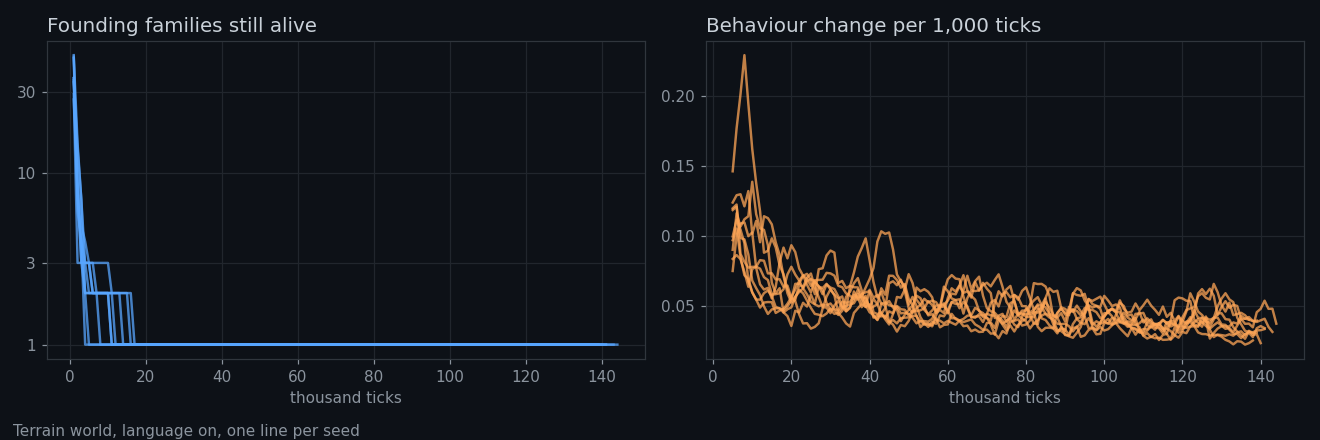
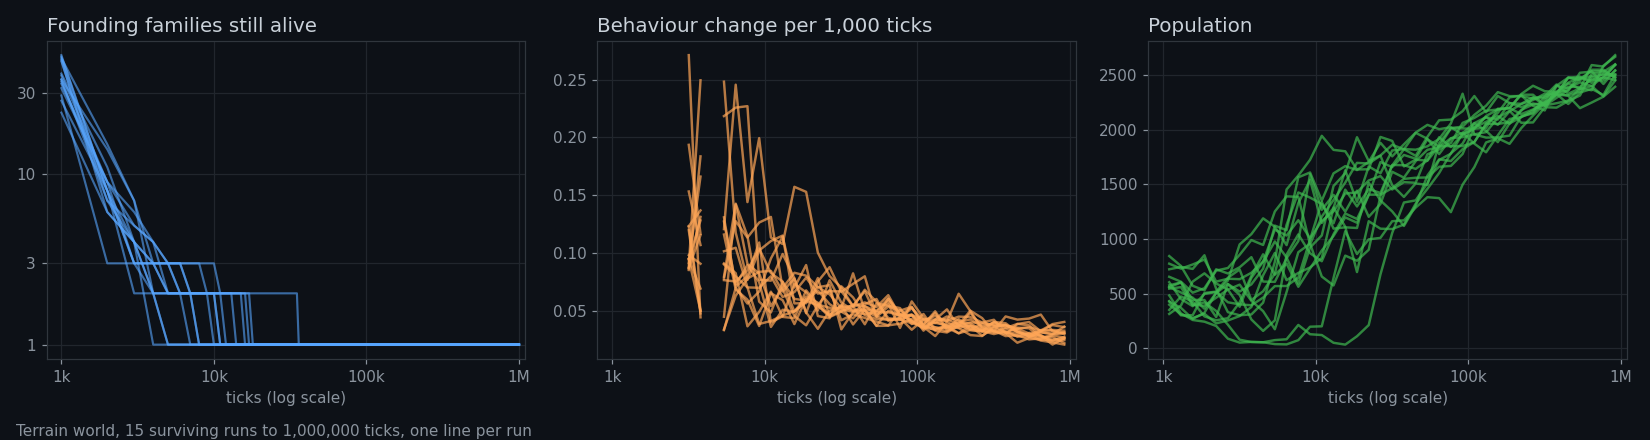
Add 1,000,000-tick results, terrain seeds 6-10, run lock; update README

diff --git a/fast/analyze_step3.py b/fast/analyze_step3.py
@@ -1,0 +1,27 @@
+"""Step 3 summary: terrain runs extended to 1,000,000 ticks. Uses novelty.csv and log.csv only (fast)."""
+import csv, glob, os, numpy as np
+R = "runs/35_terrain_language"
+acts = ["stay","N","S","E","W","eat","reproduce","signal_1","signal_2","signal_3","signal_4","share","mate","mark"]
+rows = []
+for d in sorted(glob.glob(f"{R}/language_*")):
+    if os.path.exists(f"{d}/EXTINCT"): continue
+    nv = list(csv.DictReader(open(f"{d}/novelty.csv")))
+    T = np.array([float(r["tick"]) for r in nv]); ch = np.array([float(r["change_from_previous_window"] or "nan") for r in nv])
+    def win(a, b): m = (T > a) & (T <= b); return np.nanmean(ch[m])
+    def shares(t): r = min(nv, key=lambda r: abs(float(r["tick"]) - t)); return np.array([float(r[a]) for a in acts])
+    lg = np.genfromtxt(f"{d}/log.csv", delimiter=",", names=True)
+    pop = lambda a, b: lg["population"][(lg["tick"] > a) & (lg["tick"] <= b)].mean()
+    en = lambda a, b: lg["mean_energy"][(lg["tick"] > a) & (lg["tick"] <= b)].mean()
+    s1, s2 = shares(100000), shares(1000000)
+    rows.append((os.path.basename(d), win(0, 10000), win(90000, 100000), win(490000, 500000), win(900000, 1000000),
+                 int(nv[-1]["lineages_alive"]), pop(90000, 100000), pop(900000, 1000000), en(90000, 100000), en(900000, 1000000),
+                 np.abs(s2 - s1).sum(), s1, s2, float(nv[-1]["weight_spread"]), float(nv[9]["weight_spread"]) if len(nv) > 9 else np.nan, T[-1]))
+print("run | change 0-10k | 90-100k | 490-500k | 900k-1M | lineages | pop 100k | pop 1M | energy 100k | energy 1M | behaviour shift 100k->1M | last tick")
+for r in rows:
+    print(f"{r[0]} | {r[1]:.3f} | {r[2]:.3f} | {r[3]:.3f} | {r[4]:.3f} | {r[5]} | {r[6]:.0f} | {r[7]:.0f} | {r[8]:.2f} | {r[9]:.2f} | {r[10]:.3f} | {r[15]:.0f}")
+A = np.array([r[1:5] for r in rows]); print("mean change by window:", np.round(np.nanmean(A, 0), 3))
+s1 = np.mean([r[11] for r in rows], 0); s2 = np.mean([r[12] for r in rows], 0)
+print("action shares 100k -> 1M:", ", ".join(f"{a} {x:.3f}->{y:.3f}" for a, x, y in zip(acts, s1, s2)))
+print("pop 100k->1M:", np.mean([r[6] for r in rows]).round(), "->", np.mean([r[7] for r in rows]).round(),
+      "| energy:", np.mean([r[8] for r in rows]).round(2), "->", np.mean([r[9] for r in rows]).round(2))
+print("weight spread at 10k -> 1M:", np.nanmean([r[14] for r in rows]).round(3), "->", np.mean([r[13] for r in rows]).round(3))

diff --git a/fast/run_fast.py b/fast/run_fast.py
@@ -32,6 +32,17 @@ p.add_argument("--checkpoint-every", type=int, default=None,
 p.add_argument("--stage13-dir", default=os.path.join(HERE, "..", "stages", "13_cofood"))
 a = p.parse_args()
 
+# one process per run folder: a second copy of the same run exits at once (code 3)
+import atexit
+os.makedirs(a.out_dir, exist_ok=True)
+_lock = os.path.join(a.out_dir, "RUNNING.lock")
+try:
+    os.close(os.open(_lock, os.O_CREAT | os.O_EXCL | os.O_WRONLY))
+except FileExistsError:
+    print(f"{a.out_dir} is already being run by another process (delete RUNNING.lock if that is wrong)")
+    sys.exit(3)
+atexit.register(lambda: os.path.exists(_lock) and os.remove(_lock))
+
 ck = sorted(((int(re.search(r"checkpoint_(\d+)", f).group(1)), f)
              for f in glob.glob(os.path.join(a.out_dir, "checkpoint_*.pkl"))))
 # skip unreadable saves (e.g. cut off by a kill before saves were atomic): use the newest good one

diff --git a/FINDINGS.md b/FINDINGS.md
@@ -902,3 +902,32 @@ but the signals carry very little information. Not yet a real language. Worth mo
 **Step 2 summary.** Sparse food and terrain did not make memory or shared food useful. Language moved from "not used"
 to "slight hint" once walls made distant information matter. Next in the approved order: step 3 (longer runs, 1M ticks)
 and step 5 (more seeds), starting with terrain seeds 6-10 to test the survival hint.
+
+### Terrain + language, seeds 6-10 (24 Nov 2026): the hint fades
+- Survival to 100k: language ON died out on seed 7 (tick 8.2k); OFF died out on seed 9 (tick 4.8k). All 10 seeds: **ON 9/10, OFF 7/10**
+  (seeds 1-5 alone looked like 5/5 vs 2/5). Early deaths are founding failures in the first ~17k ticks, in both arms.
+- Lesion on ON seeds 6, 8, 9, 10 (ticks 90k, 100k): keeping language gives energy -0.11 (better 3/8), eating -0.025 (higher 1/8).
+- All 18 readings (seeds 1-10): energy **+0.03 (better 10/18)**, eating **-0.010 (higher 5/18)**. No benefit.
+- Information about cluster direction: seed 6 symbol 2 adds +0.096 bits (highest seen in any run), but seed 6's lesion shows no benefit;
+  others -0.04 to +0.04.
+Verdict: language in terrain is **not used**. The seeds 1-5 hint was noise, exactly the kind 10 seeds is meant to catch.
+
+## Step 3: 1,000,000-tick runs (24 Nov 2026, laptop)
+
+All 15 surviving terrain runs (language ON seeds 1-6, 8-10; OFF seeds 3, 5-8, 10) extended from 100k to 1,000,000 ticks.
+Run time ~2.7 h with 15 runs in parallel (~117 ticks/s each, ~2,500 agents each). Script: `fast/analyze_step3.py`.
+
+| | 0-10k | 90-100k | 490-500k | 900k-1M |
+|---|---|---|---|---|
+| Behaviour change per 1,000 ticks (mean of 15) | 0.107 | 0.046 | 0.033 | 0.028 |
+
+- **Still slowing, never stopping.** Behaviour keeps changing a little (0.028 per 1,000 ticks at the end), but there is no burst of new behaviour in any run.
+- **One family.** Every run is descended from one founder by ~35k ticks and stays that way to 1M.
+- **Getting more efficient, not more inventive.** Population grew from ~1,980 (at 100k) to ~2,540 (at 1M) on the same food, while mean energy stayed ~3.1.
+  Action shares 100k -> 1M: signalling halved (each symbol ~0.016 -> 0.008), standing still 0.017 -> 0.011, sharing and mating down;
+  moving up (~0.10 -> ~0.11 each direction), reproducing 0.074 -> 0.088, eating unchanged (0.41). Evolution is trimming wasted actions.
+- **Brains drift.** Weight spread grows from 0.23 (10k) to 0.72 (1M): much of the genome is changing with little effect on behaviour (neutral drift).
+- **Language at 1M:** lesion on 9 ON seeds gives energy -0.03 (better 5/9), eating -0.006 (higher 4/9). Still not used. ON and OFF worlds look the same.
+
+Verdict: a million ticks makes the agents leaner, not new. Longer runs alone won't produce novelty in this world; this supports moving to
+worlds that push back (evolving predators, several ways to live, agents that change the world) before bigger brains.

diff --git a/README.md b/README.md
@@ -51,17 +51,17 @@ Early on, single runs produced exciting "discoveries" that turned out to be luck
 |:-:|---|---|
 | ✅ | **Social sensing** | Real and used. Switching it off cuts eating on **10/10** seeds. |
 | ✅ | **Poison avoidance** | Real. Creatures learn to steer around hazards. |
-| 🟡 | **Two-symbol language** | First hint, in walled terrain: language worlds survived **5/5** seeds vs **2/5** without. Signals still carry little meaning. *Being tested on more seeds.* |
+| ❌ | Two-symbol language | Not used, even in walled terrain. A 5-seed "hint" vanished at 10 seeds and at 1,000,000 ticks. |
 | ❌ | Communication (4 symbols) | Agents can signal, but nobody listens: removing signals changes nothing. |
 | ❌ | Working memory | Doesn't help, even when it starts switched off and has to earn its place. |
 | ❌ | Shared food (needs two eaters) | Looks like teamwork, but it's crowding: hiding the food changes nothing. |
 | ❌ | Seasons | No smarter brains. An earlier "win" was a timing artefact. |
 
 <p align="center">
-  <img src="docs/img/evolution.png" alt="Founding families collapse to one within 20,000 ticks; behaviour change levels off around 0.05" width="100%">
+  <img src="docs/img/evolution.png" alt="Over 1,000,000 ticks: founding families collapse to one, behaviour change slowly falls to about 0.03, population grows steadily" width="100%">
 </p>
 
-**Every world ends up descended from a single founder out of 300, and behaviour settles down within ~50,000 ticks.** Evolution finds one good way to live and stops exploring. That's the problem the next stage of the project attacks.
+**A million ticks makes creatures leaner, not new.** Every world collapses to a single founding family out of 300 within ~35,000 ticks. Over the next 965,000 ticks populations grow by ~30% on the same food as evolution trims wasted actions (signalling halves, idling drops), but no new behaviour ever appears. Evolution finds one good way to live and stops exploring. That's the problem the next stage of the project attacks.
 
 📖 The full lab notebook, with every table, correction and dead end, is in [`FINDINGS.md`](FINDINGS.md).
 
@@ -69,7 +69,7 @@ Early on, single runs produced exciting "discoveries" that turned out to be luck
 
 - [x] **Fast engine:** NumPy + Numba rewrite, ~110–180× faster, plus a PyTorch/GPU version
 - [x] **Sparse world:** drifting, vanishing food clusters and walled terrain
-- [ ] **Long runs:** 1,000,000 ticks with a novelty meter and family trees *(running now)*
+- [x] **Long runs:** 1,000,000 ticks with a novelty meter and family trees
 - [ ] **Worlds that push for novelty**
   - [ ] ⚔ An arms race: predators that evolve too
   - [ ] 🍄 Several ways to live: food types that need different skills
